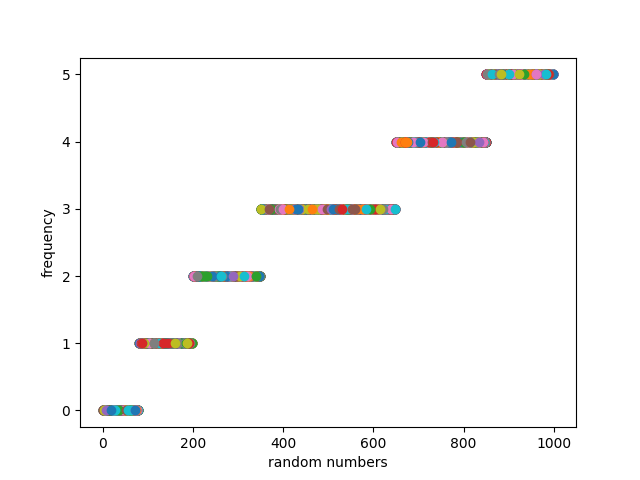
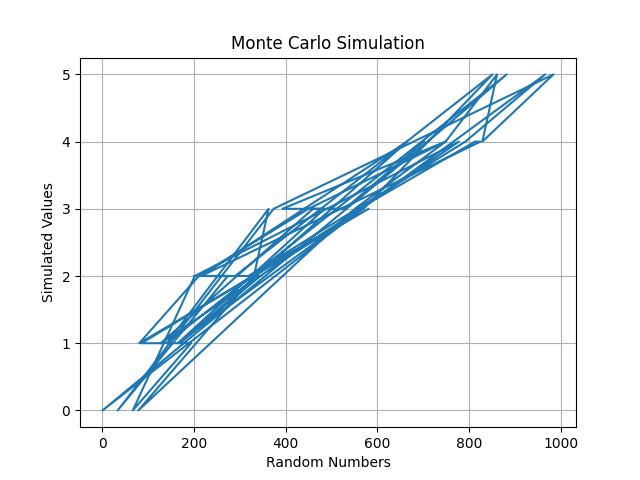
added animation in simulation.py

diff --git a/simulator.py b/simulator.py
@@ -1,9 +1,10 @@
 import pandas as pd 
+import matplotlib   
 import matplotlib.pyplot as plt
 import matplotlib.animation as animation
 
 import random 
-
+matplotlib.use('TkAgg')  # or 'Qt5Agg'
 
 def read_data( filepath):
     df = pd.read_csv(filepath)
@@ -19,7 +20,7 @@ def print_data(list):
 def random_number_generator(simulation_range):
     rand_list = []
     for x in range(simulation_range):
-        rand_list.append(random.randint(0, 99)) 
+        rand_list.append(random.randint(0, 999)) 
     return rand_list
     
 
@@ -69,15 +70,44 @@ def simulate(random_numb , generate_csv):
                 recorded_data.append(x_variable[x])
     return recorded_data 
 
-def plot_data(random_numb_list , recorded_data):
-    for x in range(len(random_numb_list)):
-        plt.scatter(random_numb_list[x],recorded_data[x] )
-    plt.xlabel("random numbers")
-    plt.ylabel("frequency")
+def plot_data(random_numb_list, recorded_data):
+    plt.figure()
+    plt.plot(random_numb_list, recorded_data)
+    plt.xlabel("Random Numbers")
+    plt.ylabel("Simulated Values")
+    plt.title("Monte Carlo Simulation")
+    plt.grid(True)
     plt.savefig("plotted.png")
+    plt.show()
 
-def animated_plot():
-    pass
+def animated_plot(random_numb_list, recorded_data):
+    fig, ax = plt.subplots()
+    x_data = []
+    y_data = []
+    line, = ax.plot([], [], lw=2)
+
+    ax.set_xlim(min(random_numb_list), max(random_numb_list))
+    ax.set_ylim(min(recorded_data), max(recorded_data))
+    ax.set_xlabel("Random Numbers")
+    ax.set_ylabel("Simulated Values")
+    ax.set_title("Animated Monte Carlo Simulation")
+
+    def update(frame):
+        x_data.append(random_numb_list[frame])
+        y_data.append(recorded_data[frame])
+        line.set_data(x_data, y_data)
+        return line,
+
+    anim = animation.FuncAnimation(
+        fig,
+        update,
+        frames=len(random_numb_list),
+        interval=200,
+        repeat=False
+    )
+    return anim
+
+    plt.show()
 
 def main(): 
     frequency = read_data('./data.csv') 
@@ -89,6 +119,8 @@ def main():
     print(random_numbers)
     print(recorded_data)
     plot_data(random_numbers , recorded_data)
+    anim = animated_plot(random_numbers , recorded_data)
+    plt.show()
 
 
 if __name__ == "__main__":
